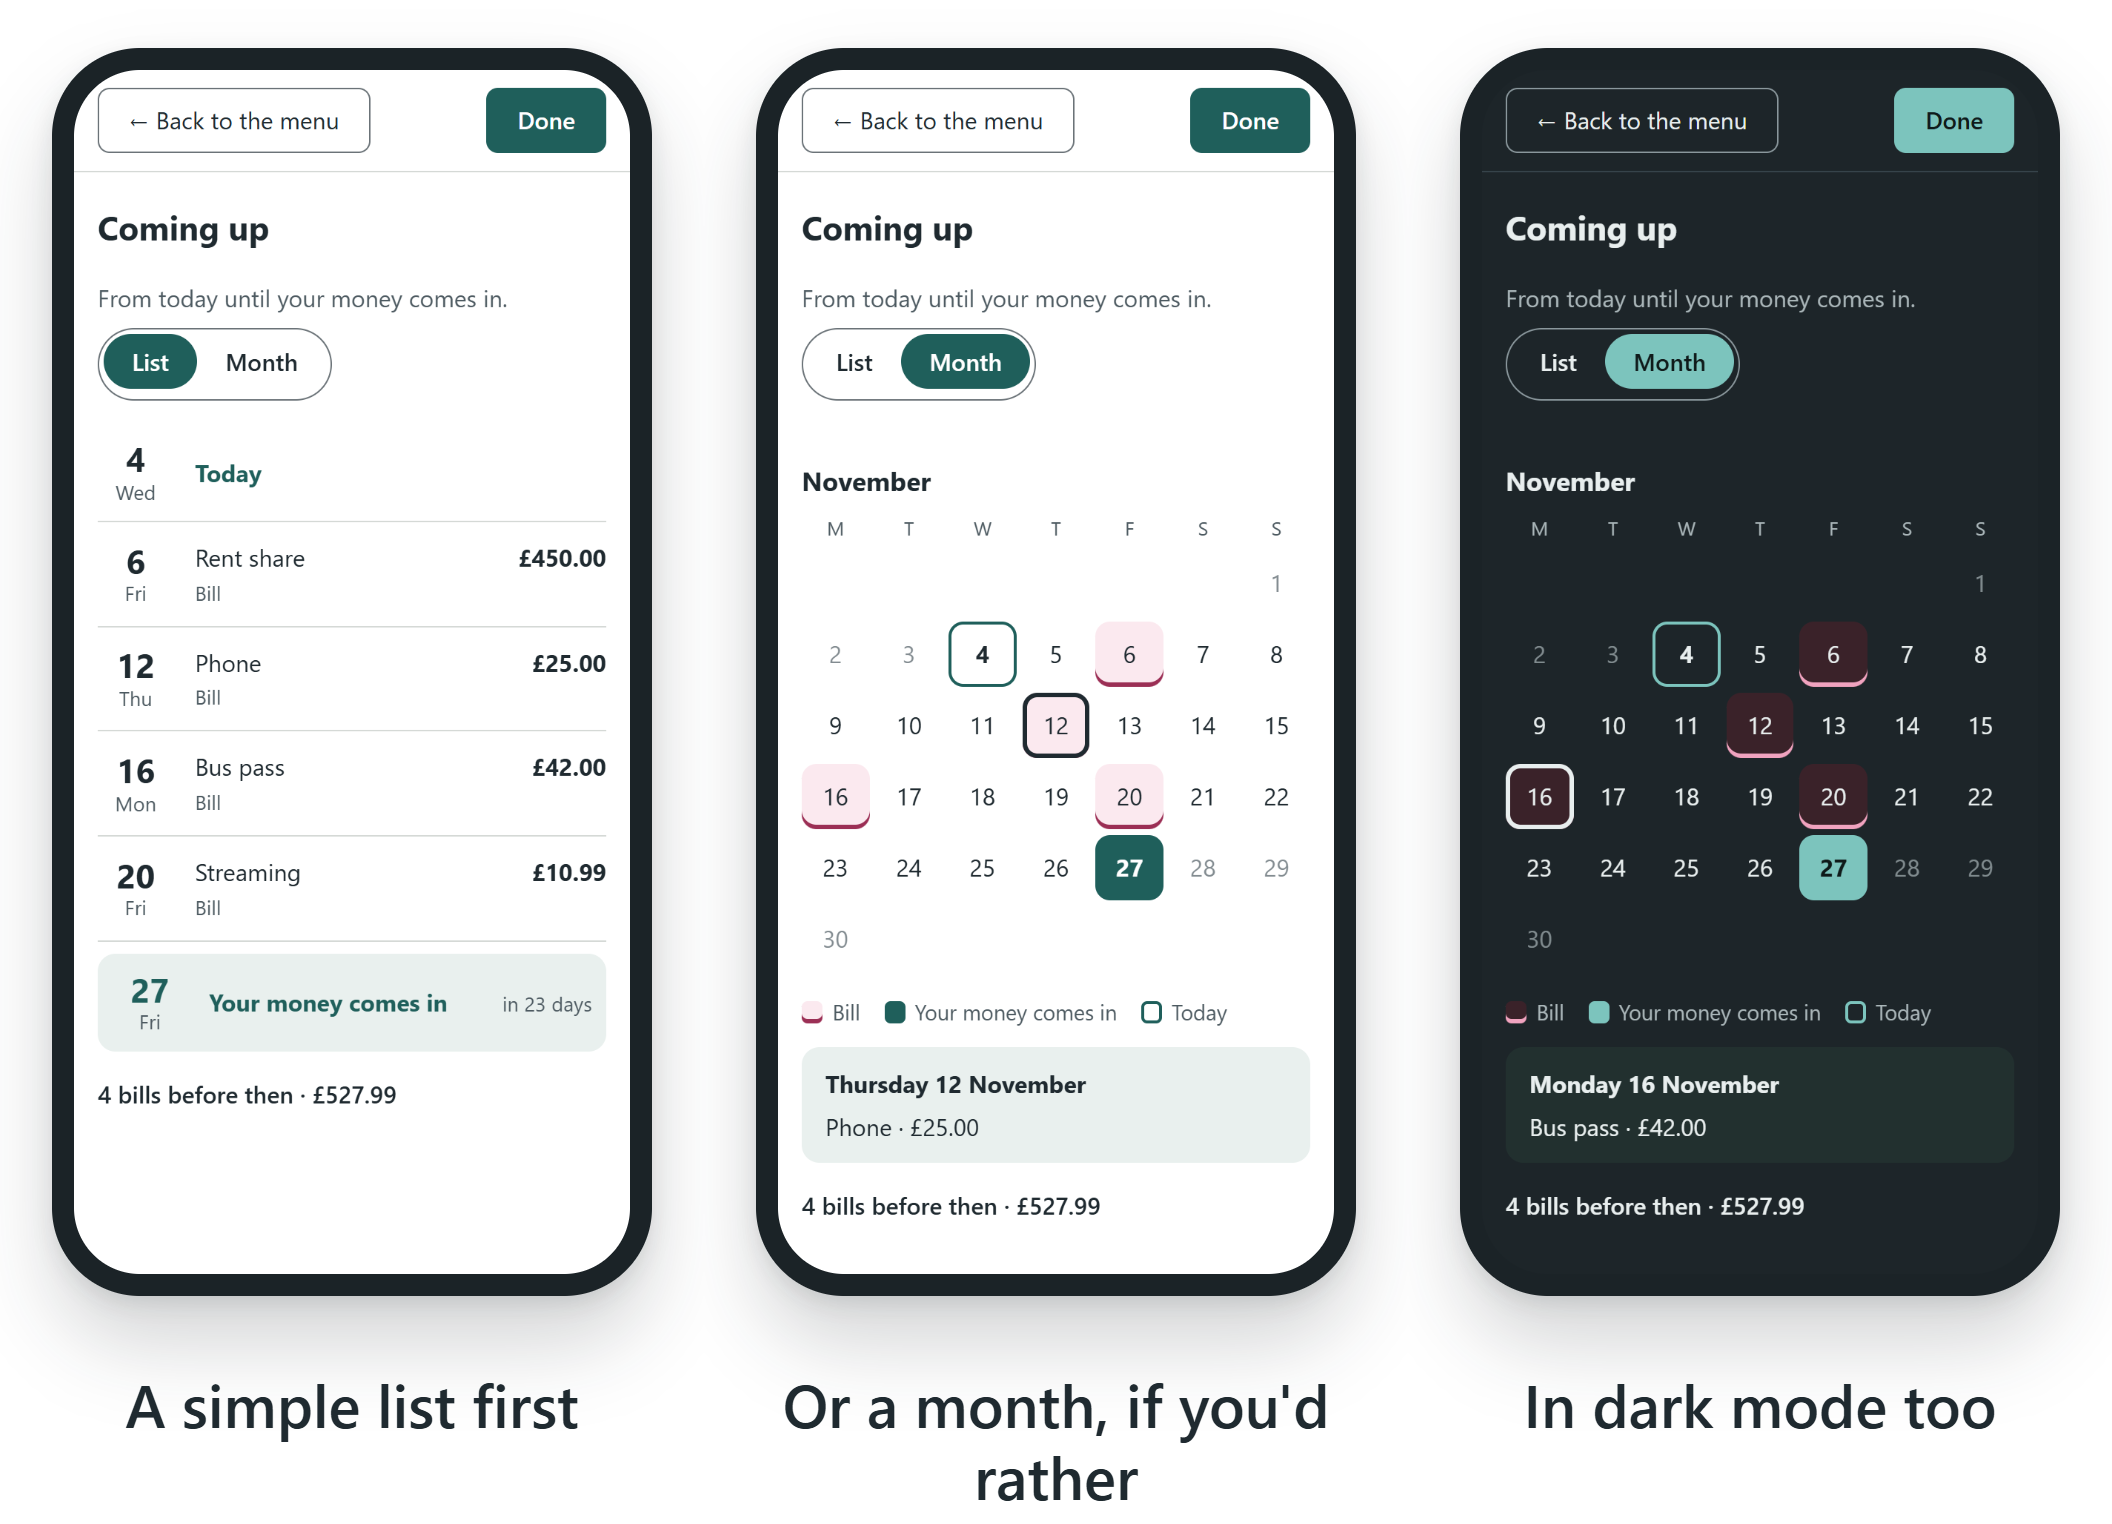
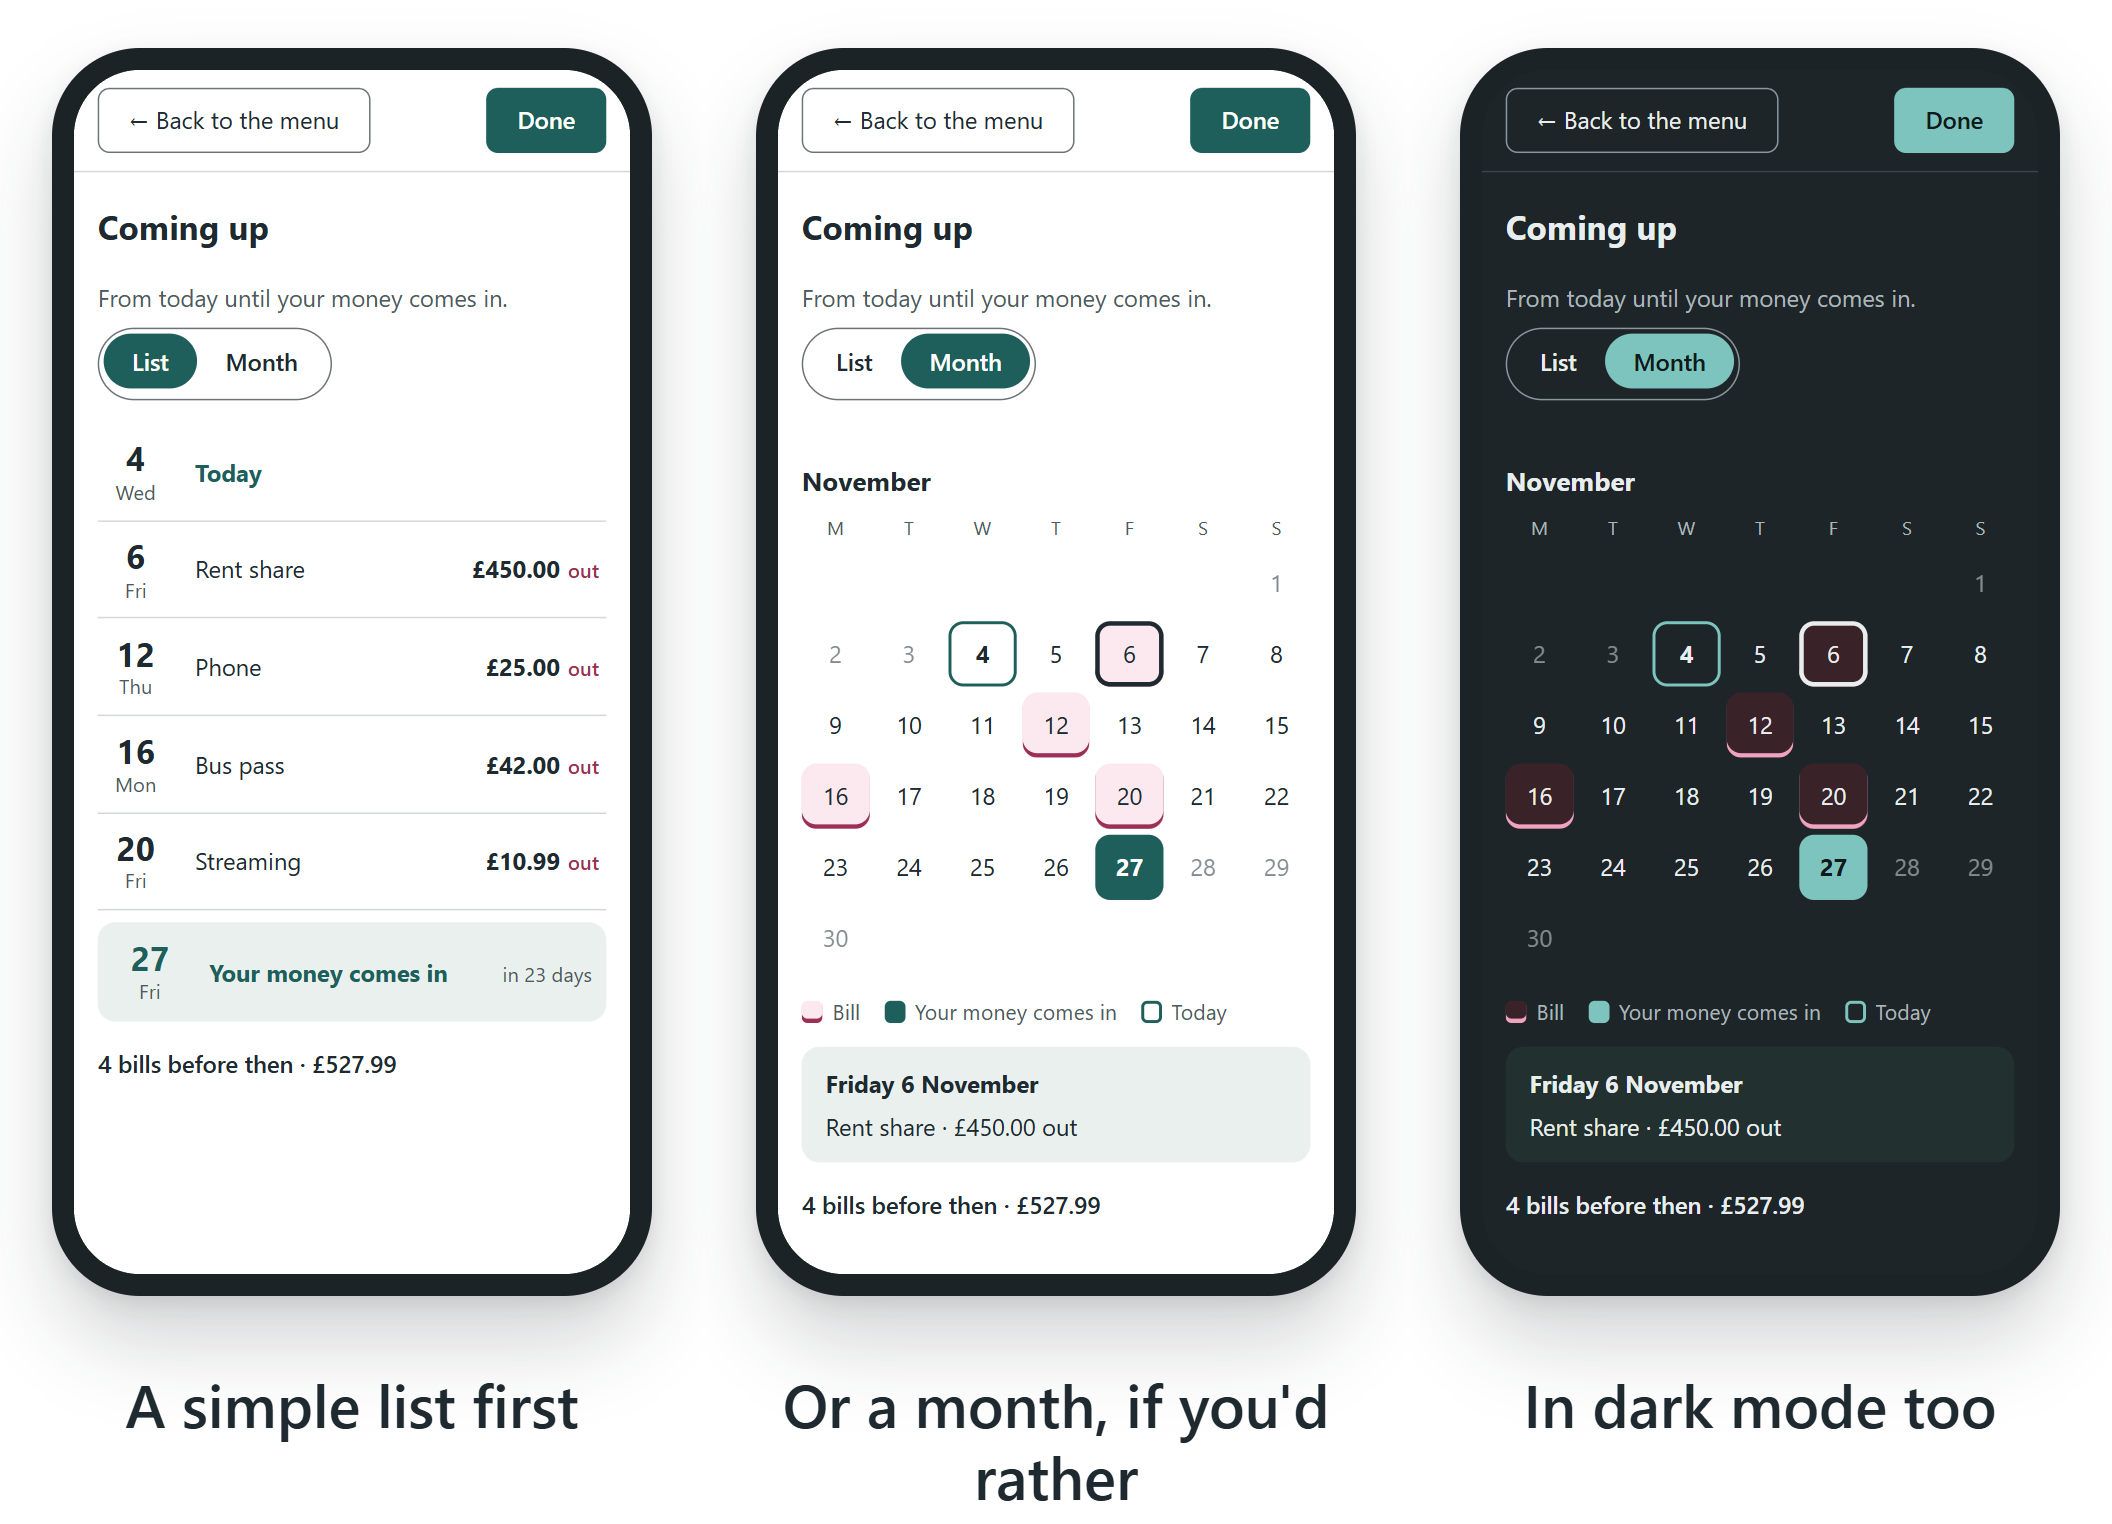
Coming up: "in" / "out" after each amount
Each amount on Coming up gets "in" (app colour) or "out" (bill rose) in
its own narrow column so amounts stay aligned; the "Bill / Money coming
in" sub-line and the + sign go. Month day details match. Pictures
retaken; README line; notes for v0.24.2.

diff --git a/apps/money/src/screens/ComingUpView.tsx b/apps/money/src/screens/ComingUpView.tsx
@@ -85,11 +85,13 @@ function DayRow({ day, data, name }: { day: ComingUpDay; data: ComingUp; name: s
             </div>
           ) : (
             <div key={item.id} className="coming-item">
-              <span>
-                {item.name}
-                <span className="coming-tag">{item.kind === "bill" ? text.bill : text.moneyIn}</span>
-              </span>
-              <b className="coming-amount">{item.kind === "income" ? `+${formatMoney(item.amount)}` : formatMoney(item.amount)}</b>
+              <span>{item.name}</span>
+              <b className="coming-amount">
+                {formatMoney(item.amount)}
+                <span className={item.kind === "income" ? "coming-way coming-in" : "coming-way coming-out"}>
+                  {item.kind === "income" ? text.inWord : text.outWord}
+                </span>
+              </b>
             </div>
           ),
         )}
@@ -164,7 +166,9 @@ function MonthView({ data, name }: { data: ComingUp; name: string }) {
         ) : (
           chosen.items.map((item) => (
             <p key={item.kind === "money-day" ? "money" : item.id}>
-              {item.kind === "money-day" ? text.moneyDayNamed(name) : `${item.name} · ${item.kind === "income" ? "+" : ""}${formatMoney(item.amount)}`}
+              {item.kind === "money-day"
+                ? text.moneyDayNamed(name)
+                : `${item.name} · ${formatMoney(item.amount)} ${item.kind === "income" ? text.inWord : text.outWord}`}
             </p>
           ))
         )}

diff --git a/apps/money/src/styles.css b/apps/money/src/styles.css
@@ -1288,6 +1288,21 @@ a.button-link {
   font-variant-numeric: tabular-nums;
   white-space: nowrap;
 }
+/* "in" or "out" after the amount, in its own narrow column so the amounts stay lined up. */
+.coming-way {
+  display: inline-block;
+  width: 1.9em;
+  margin-left: 0.4em;
+  text-align: left;
+  font-size: 0.85em;
+  font-weight: 600;
+}
+.coming-in {
+  color: var(--accent);
+}
+.coming-out {
+  color: var(--bill);
+}
 .coming-today {
   color: var(--accent);
   font-weight: 700;

diff --git a/apps/money/src/content/words.ts b/apps/money/src/content/words.ts
@@ -184,6 +184,8 @@ export const words = {
     moneyDay: "Your money comes in",
     moneyDayNamed: (name: string) => (name === "" ? "Your money comes in" : `${name} comes in`),
     bill: "Bill",
+    inWord: "in",
+    outWord: "out",
     moneyIn: "Money coming in",
     billTotal: (count: number, total: string) => `${count === 1 ? "1 bill" : `${count} bills`} before then · ${total}`,
     noBills: "No bills before then.",

diff --git a/docs/releases/v0.24.2.md b/docs/releases/v0.24.2.md
@@ -1,0 +1,15 @@
+**Coming up: in and out.**
+
+## What's new
+
+- On **Coming up**, every amount now says **in** or **out** after it, in its own neat column: *Rent share £450.00 out*, *Mum £140.00 in*. "Out" is the same rose as bill days in the month view, and "in" matches your app colour.
+- The small "Bill" / "Money coming in" line under each name has gone, so each item is one tidy line.
+- The month view's day details read the same way: *Rent share · £450.00 out*.
+
+## Updating to this version
+
+- **Android (from v0.14.0):** go to **Menu → Settings → App options → Updates**, tap **Check now**, then **Download and install**. Your numbers stay.
+- **Android (older versions, or a first install):** on your phone, tap [this download link](https://github.com/PapaReaps/Breathe/releases/latest/download/breathe-money.apk), then open it. [How to install it](https://github.com/PapaReaps/Breathe/blob/main/docs/ANDROID-APP.md).
+- **Web link and computer app:** [papareaps.github.io/Breathe](https://papareaps.github.io/Breathe/) updates by itself.
+
+Breathe Money is an organisation tool, not financial advice.

diff --git a/README.md b/README.md
@@ -118,7 +118,7 @@ No account, no download.
   </picture>
 </p>
 
-- **Coming up** shows your bills and the day your money comes in, from today until then. Switch between **List** and **Month**, and the app remembers which you like.
+- **Coming up** shows your bills and the day your money comes in, from today until then. Each amount says **in** or **out**. Switch between **List** and **Month**, and the app remembers which you like.
 
 ### Make it yours
 
